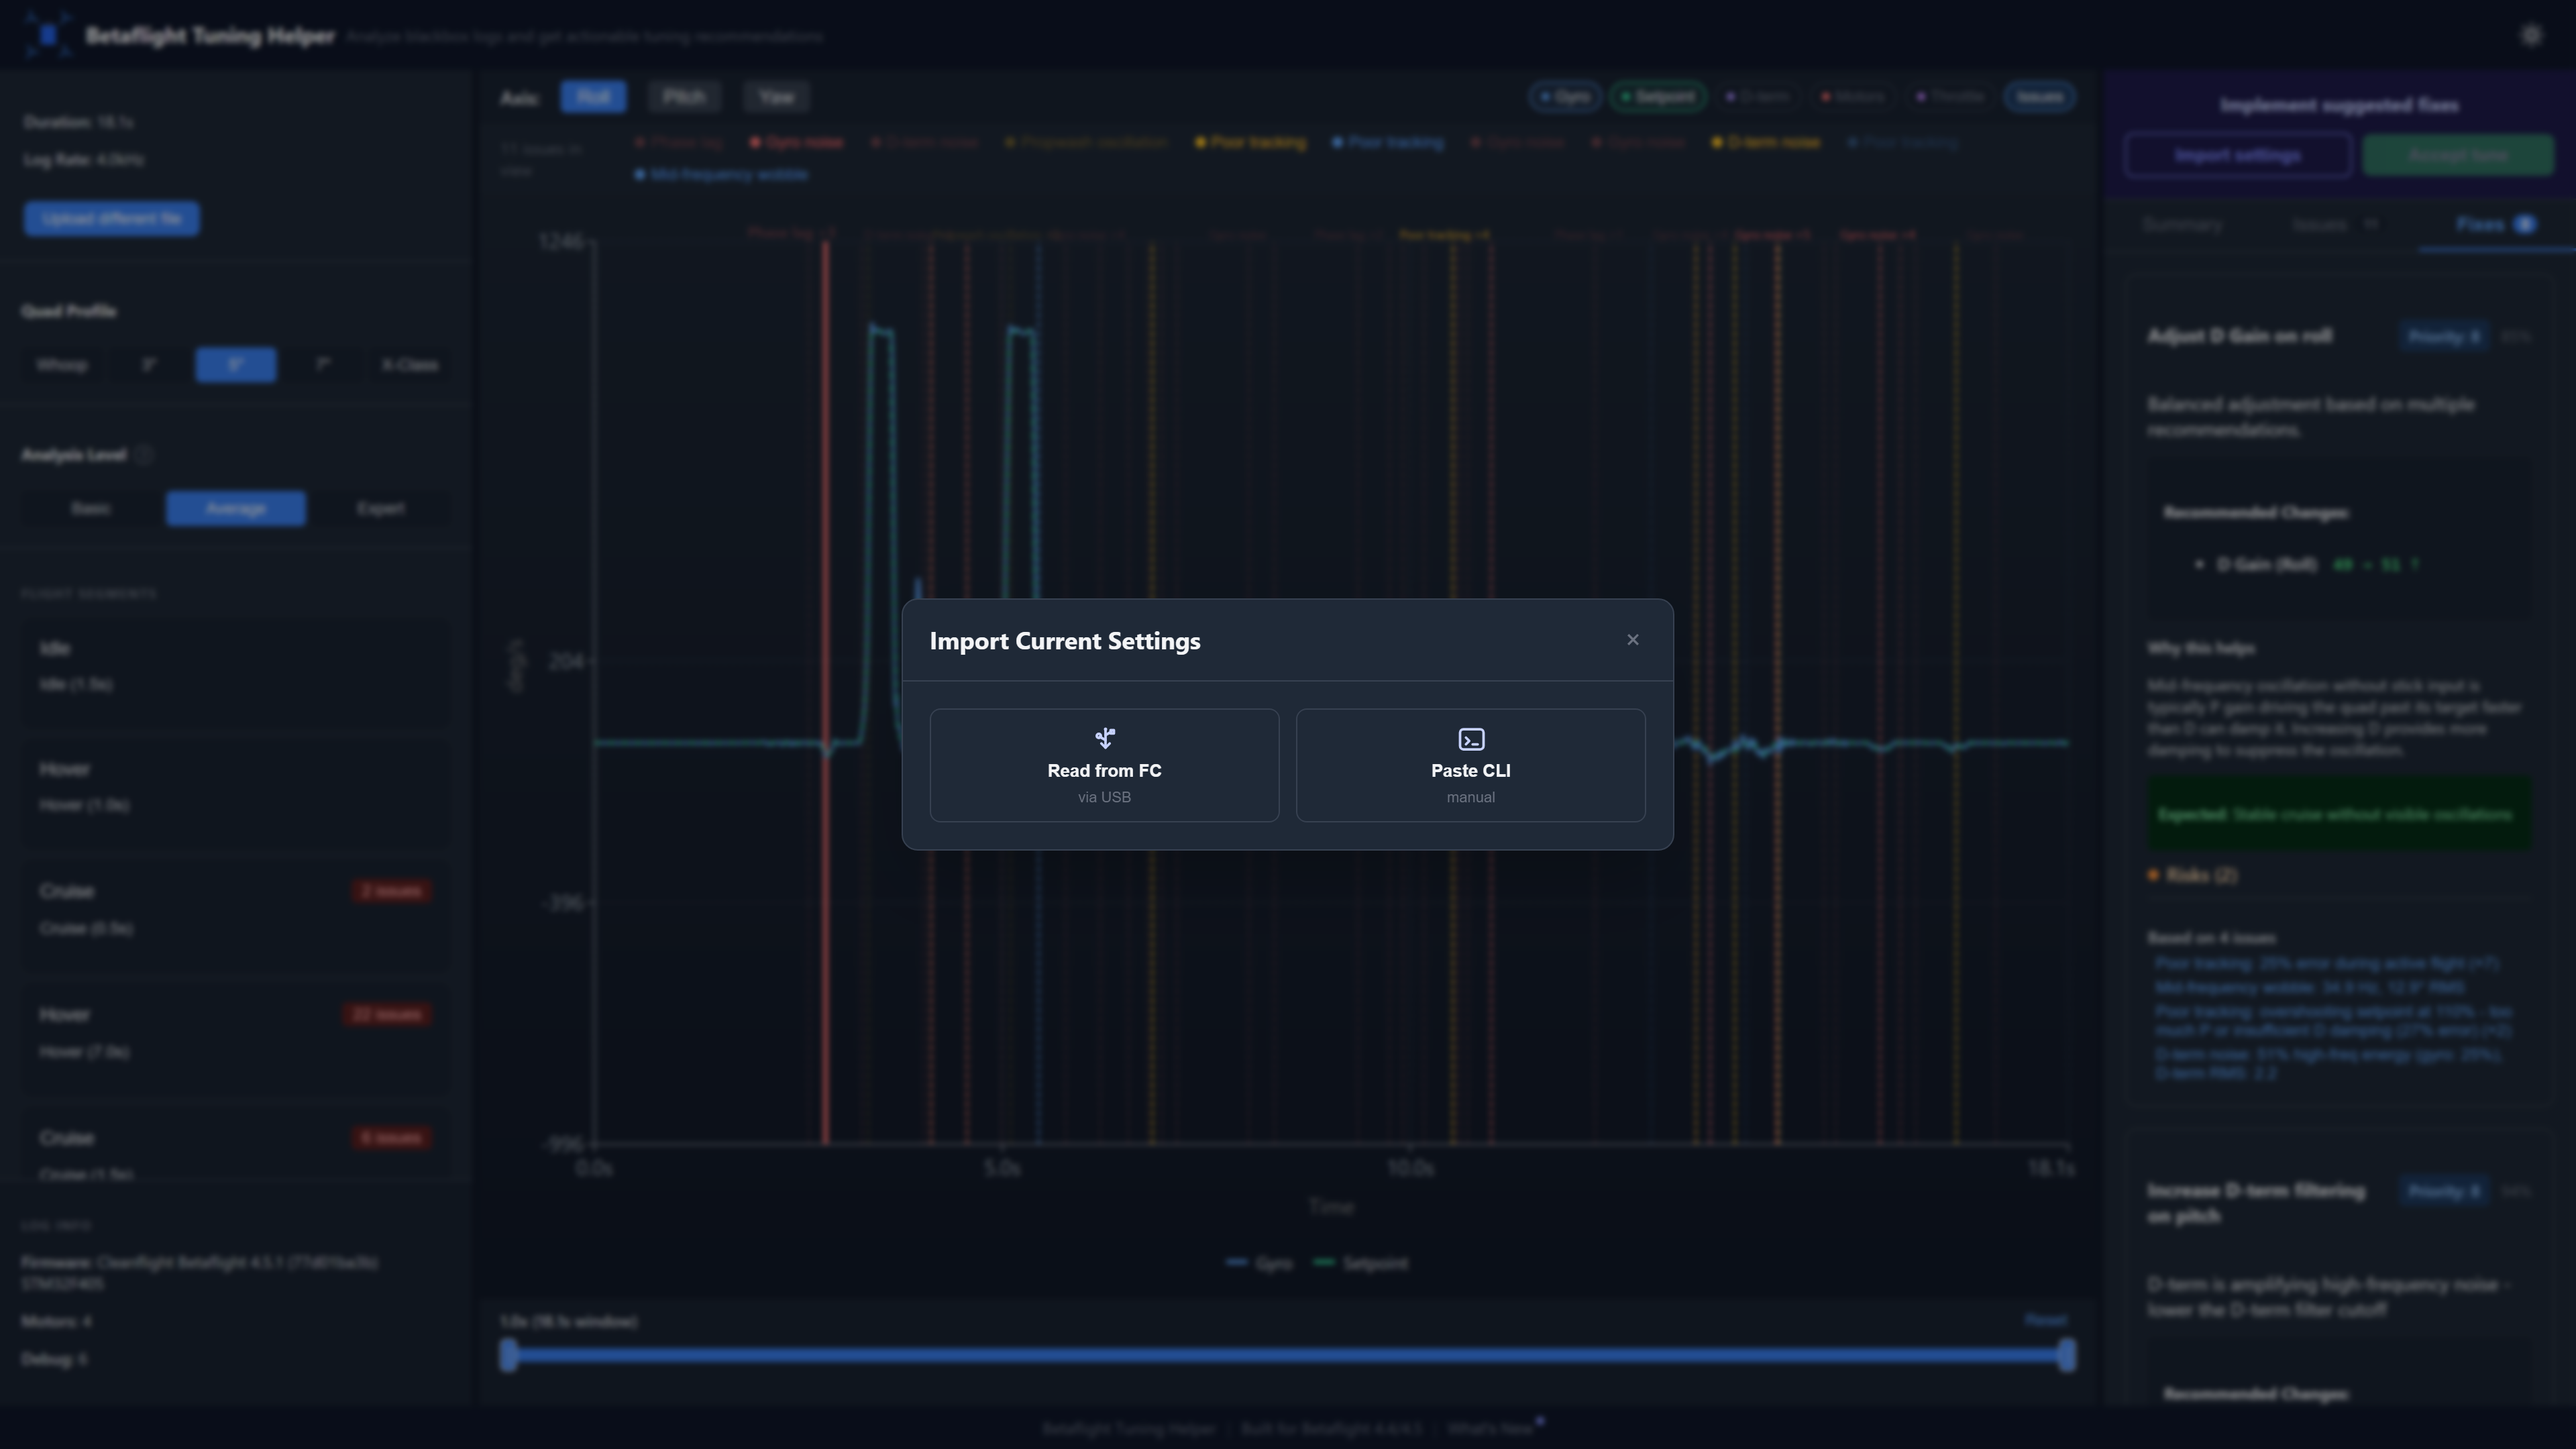
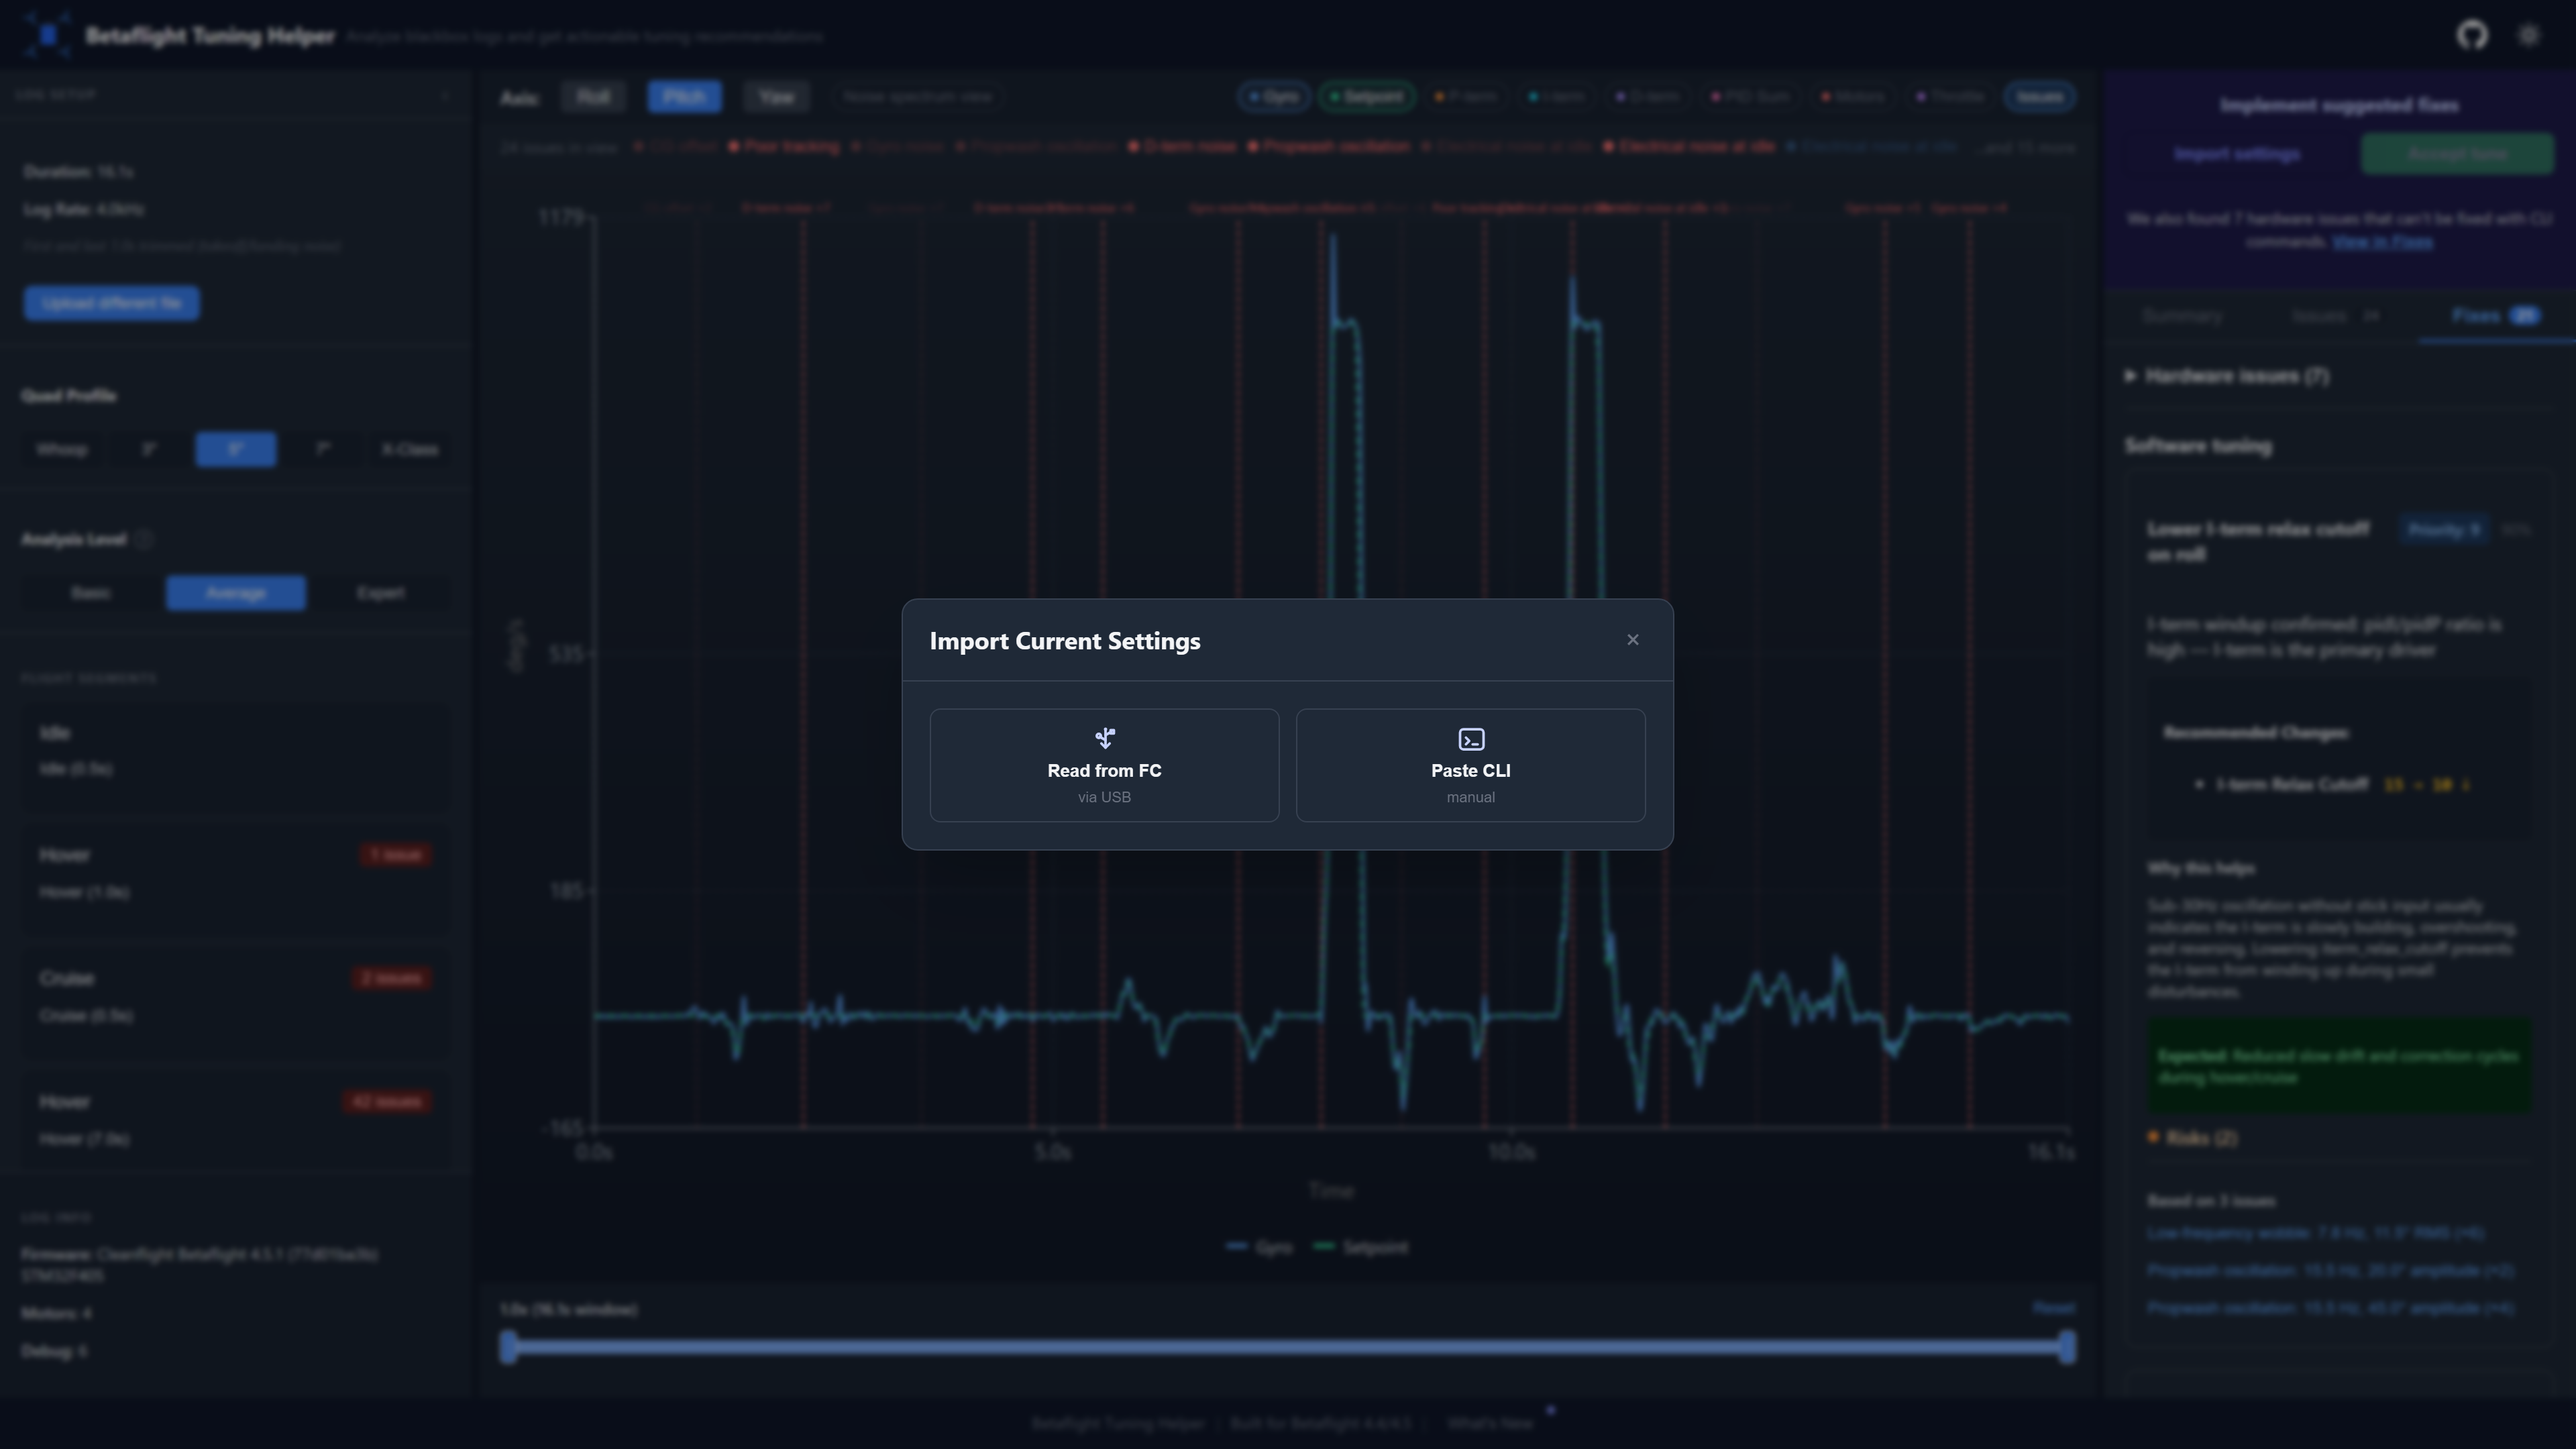
Refresh screenshots with dark mode fix, new ordering, and hardware fixes showcase

diff --git a/scripts/take-screenshots.ts b/scripts/take-screenshots.ts
@@ -44,7 +44,7 @@ const SHOWCASE_CARDS: ShowcaseCard[] = [
   },
   {
     id: 2,
-    filename: '02-analysis-overview.png',
+    filename: '07-analysis-overview.png',
     rawFile: 'raw-02-overview.png',
     title: 'Instant Flight Analysis',
     description:
@@ -53,7 +53,7 @@ const SHOWCASE_CARDS: ShowcaseCard[] = [
   },
   {
     id: 3,
-    filename: '03-issue-detection.png',
+    filename: '05-issue-detection.png',
     rawFile: 'raw-03-issue.png',
     title: 'Pinpoint Tuning Problems',
     description:
@@ -62,7 +62,7 @@ const SHOWCASE_CARDS: ShowcaseCard[] = [
   },
   {
     id: 4,
-    filename: '04-read-from-fc.png',
+    filename: '02-read-from-fc.png',
     rawFile: 'raw-04-read-fc.png',
     title: 'Read Settings from FC',
     description:
@@ -71,7 +71,7 @@ const SHOWCASE_CARDS: ShowcaseCard[] = [
   },
   {
     id: 5,
-    filename: '05-accept-write.png',
+    filename: '03-accept-write.png',
     rawFile: 'raw-05-accept-write.png',
     title: 'Review & Write to FC',
     description:
@@ -80,7 +80,7 @@ const SHOWCASE_CARDS: ShowcaseCard[] = [
   },
   {
     id: 6,
-    filename: '06-write-confirm.png',
+    filename: '04-write-confirm.png',
     rawFile: 'raw-06-write-confirm.png',
     title: 'Apply Changes Directly',
     description:
@@ -88,8 +88,17 @@ const SHOWCASE_CARDS: ShowcaseCard[] = [
     accent: '#059669',
   },
   {
+    id: 9,
+    filename: '06-hardware-fixes.png',
+    rawFile: 'raw-09-hardware-fixes.png',
+    title: 'Hardware Issue Detection',
+    description:
+      'Not every problem is a software fix. The app flags hardware-related issues — bent props, worn bearings, loose motors — separately so you know what needs a physical inspection.',
+    accent: '#f97316',
+  },
+  {
     id: 7,
-    filename: '07-signal-analysis.png',
+    filename: '08-signal-analysis.png',
     rawFile: 'raw-07-signals.png',
     title: 'Deep Signal Analysis',
     description:
@@ -98,7 +107,7 @@ const SHOWCASE_CARDS: ShowcaseCard[] = [
   },
   {
     id: 8,
-    filename: '08-light-mode.png',
+    filename: '09-light-mode.png',
     rawFile: 'raw-08-light.png',
     title: 'Personalized Experience',
     description:
@@ -126,8 +135,8 @@ async function uploadAndAnalyze(page: Page): Promise<void> {
 
 async function enableDarkMode(page: Page): Promise<void> {
   const btn = page.locator('button[aria-label="Toggle theme"]')
-  const title = await btn.getAttribute('title')
-  if (title === 'Switch to dark mode') {
+  const tooltip = await btn.locator('.theme-tooltip').textContent()
+  if (tooltip?.trim() === 'Switch to dark mode') {
     await btn.click()
     await waitForStable(page, 500)
   }
@@ -135,8 +144,8 @@ async function enableDarkMode(page: Page): Promise<void> {
 
 async function enableLightMode(page: Page): Promise<void> {
   const btn = page.locator('button[aria-label="Toggle theme"]')
-  const title = await btn.getAttribute('title')
-  if (title === 'Switch to light mode') {
+  const tooltip = await btn.locator('.theme-tooltip').textContent()
+  if (tooltip?.trim() === 'Switch to light mode') {
     await btn.click()
     await waitForStable(page, 500)
   }
@@ -530,6 +539,32 @@ async function capture8(page: Page): Promise<void> {
   await page.screenshot({ path: path.join(RAW_DIR, 'raw-08-light.png') })
 }
 
+async function capture9(page: Page): Promise<void> {
+  console.log('Taking screenshot 9: Hardware fixes (dark)...')
+  await enableDarkMode(page)
+
+  // Reset zoom
+  await page.getByTestId('zoom-reset-button').click()
+  await waitForStable(page, 500)
+
+  // Switch to Fixes tab
+  await page
+    .getByTestId('right-panel')
+    .locator('button')
+    .filter({ hasText: /^Fixes/ })
+    .click()
+  await waitForStable(page, 500)
+
+  // Expand the hardware issues section
+  const hardwareToggle = page.locator('button').filter({ hasText: /Hardware issues/ })
+  if ((await hardwareToggle.count()) > 0) {
+    await hardwareToggle.click()
+    await waitForStable(page, 500)
+  }
+
+  await page.screenshot({ path: path.join(RAW_DIR, 'raw-09-hardware-fixes.png') })
+}
+
 const CAPTURE_FNS: Record<number, (page: Page) => Promise<void>> = {
   1: capture1,
   2: capture2,
@@ -539,6 +574,7 @@ const CAPTURE_FNS: Record<number, (page: Page) => Promise<void>> = {
   6: capture6,
   7: capture7,
   8: capture8,
+  9: capture9,
 }
 
 // ── Compositing ─────────────────────────────────────────────────────
@@ -689,8 +725,8 @@ async function main(): Promise<void> {
   }
 
   // Determine which screenshots to take
-  const requested = args.map(Number).filter((n) => n >= 1 && n <= 8)
-  const ids = requested.length > 0 ? requested : [1, 2, 3, 4, 5, 6, 7, 8]
+  const requested = args.map(Number).filter((n) => n >= 1 && n <= 9)
+  const ids = requested.length > 0 ? requested : [1, 2, 3, 4, 5, 6, 7, 8, 9]
 
   console.log(`Capturing screenshot(s): ${ids.join(', ')}`)
   console.log('Launching browser...')

diff --git a/README.md b/README.md
@@ -29,19 +29,21 @@ Everything runs 100% client-side. No data leaves your browser, no account requir
 
 ![Download Logs Directly from FC](screenshots/01-download-from-fc.png)
 
-![Instant Flight Analysis](screenshots/02-analysis-overview.png)
+![Read Settings from FC](screenshots/02-read-from-fc.png)
 
-![Pinpoint Tuning Problems](screenshots/03-issue-detection.png)
+![Review & Write to FC](screenshots/03-accept-write.png)
 
-![Read Settings from FC](screenshots/04-read-from-fc.png)
+![Apply Changes Directly](screenshots/04-write-confirm.png)
 
-![Review & Write to FC](screenshots/05-accept-write.png)
+![Pinpoint Tuning Problems](screenshots/05-issue-detection.png)
 
-![Apply Changes Directly](screenshots/06-write-confirm.png)
+![Hardware Issue Detection](screenshots/06-hardware-fixes.png)
 
-![Deep Signal Analysis](screenshots/07-signal-analysis.png)
+![Instant Flight Analysis](screenshots/07-analysis-overview.png)
 
-![Personalized Experience](screenshots/08-light-mode.png)
+![Deep Signal Analysis](screenshots/08-signal-analysis.png)
+
+![Personalized Experience](screenshots/09-light-mode.png)
 
 ## Features
 
